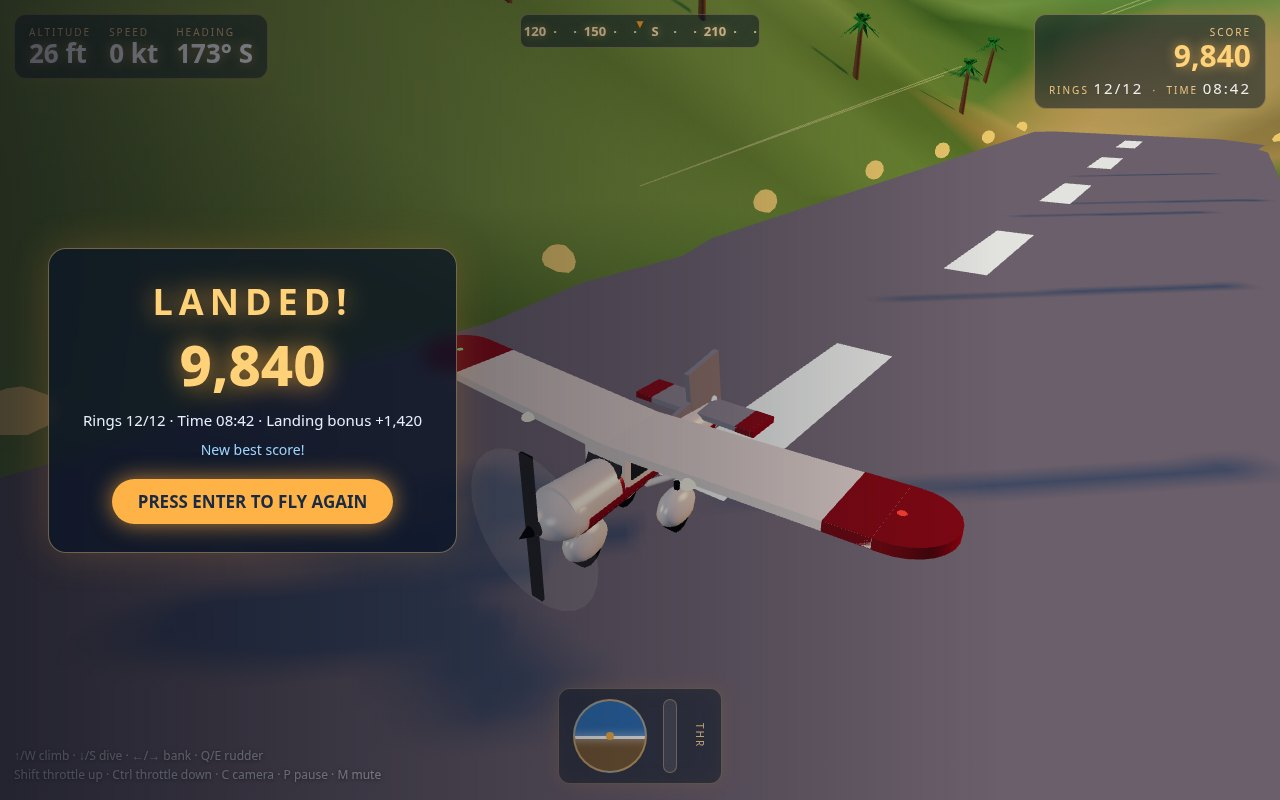
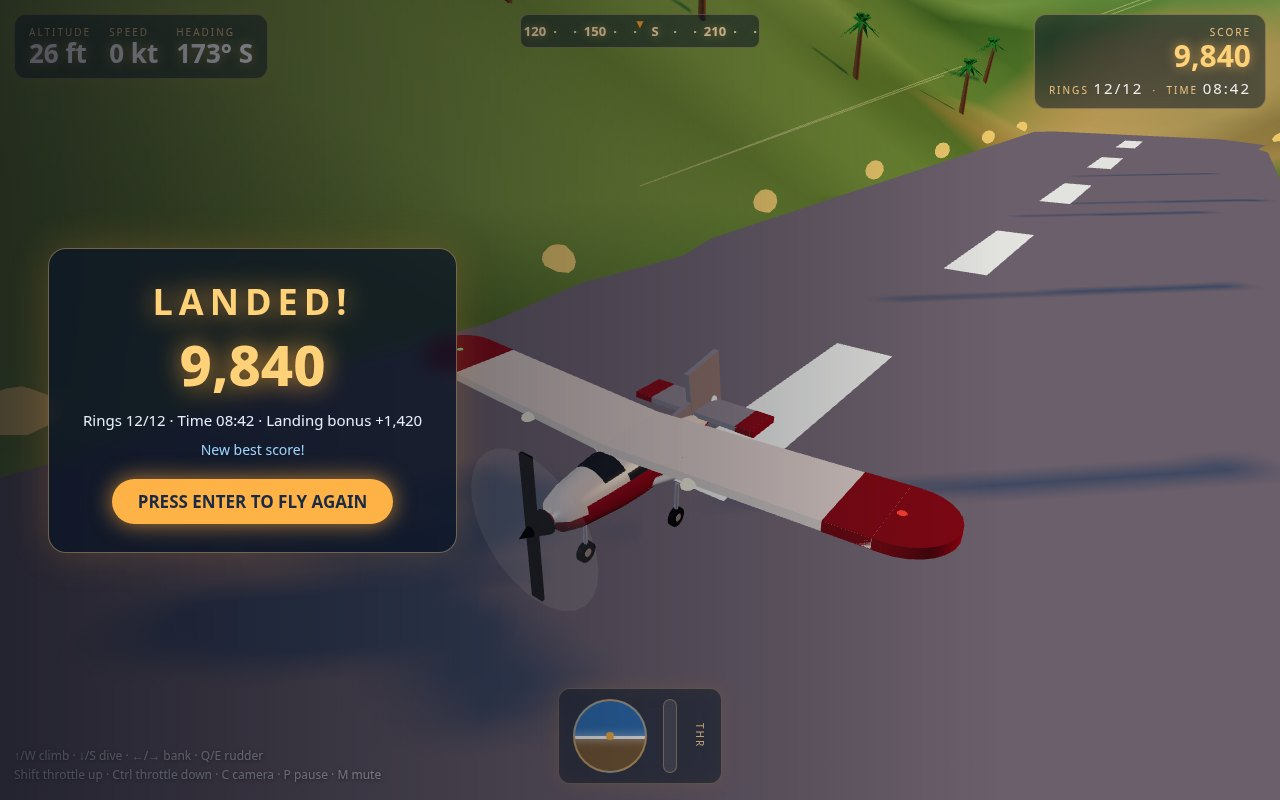
v6 visual rebuild: lathe fuselage (no more tube), real wheels (no more lamps)
- Fuselage is now a LatheGeometry profile, not a uniform cylinder:
  narrow cowl, fat cabin (widest station), long taper to a thin tail
  cone under the grey fin. Windows + windshield are curved lathe
  shells hugging the body; cheatline + maroon belly follow the profile.
- Deleted the big white wheel fairings (spats) outright: small dark
  tires on thin light-grey struts, like the reference photo.
- Hero camera: tried a rear-left 3/4 so the ring could share the frame
  (it did), but the banked plane reads as a red blob with a giant wing
  bar from behind — reverted to the v5 front-left 3/4 hero. Ring stays
  out of the cover; HUD carries the ring info.

Changed region(s): [[0.4062, 0.5625, 0.5625, 0.7188], [0.5312, 0.5, 0.5625, 0.5312]]

diff --git a/game/src/plane.js b/game/src/plane.js
@@ -23,70 +23,70 @@ export function buildPlaneModel() {
   // The prop blades and disc fade to a blur in the cockpit view (see main.js).
   const bladeMat = new THREE.MeshPhongMaterial({ color: DARK, shininess: 30, transparent: true, opacity: 1 });
   const discMat = new THREE.MeshBasicMaterial({ color: 0xd8d8d8, transparent: true, opacity: 0.04, side: THREE.DoubleSide });
-  const glass = new THREE.MeshPhongMaterial({ color: 0x18242e, shininess: 180, transparent: true, opacity: 0.92 });
+  const glass = new THREE.MeshPhongMaterial({ color: 0x18242e, shininess: 180, transparent: true, opacity: 0.92, side: THREE.DoubleSide });
 
-  // Fuselage: long tapered cylinder along Z (nose at -Z), fat at the nose.
-  // CylinderGeometry's radiusTop lands at +Z after the X-rotation, so the
-  // small radius goes first: thin tail, fat nose. 24 segments (was 16):
-  // the rounder cross-section catches the sun as a gradient, not a facet.
-  const body = new THREE.Mesh(new THREE.CylinderGeometry(0.40, 0.62, 5.4, 24), white);
-  body.rotation.x = Math.PI / 2;
-  body.castShadow = true;
-  group.add(body);
+  // Fuselage: a LATHE profile, not a tube. The v5 fuselage was one uniform
+  // cylinder (r 0.40→0.62) with a ball nose and a boxy cabin on top — from
+  // any angle it read as a plain white tube, and the user called it exactly
+  // that ("kayak tabung"). The profile below is the Cessna silhouette from
+  // the reference photo: narrow cowl, FAT cabin (the widest station), then
+  // a long taper down to a thin tail cone under the grey fin. LatheGeometry
+  // rotates the profile around the fuselage axis; points are (radius, z)
+  // with the nose at -Z. After rotation.x = PI/2, local +Y lands at +Z,
+  // local +Z lands at world -Y (the belly), local +X stays world +X — so
+  // phi 0 is the belly, phi PI/2 the +X side, phi PI the roof.
+  const PROFILE = [
+    [0.16, -2.90], // nose tip (spinner covers the front)
+    [0.38, -2.70], // cowl front
+    [0.50, -2.30], // cowl max
+    [0.58, -1.70], // windshield base
+    [0.65, -1.10], // cabin front
+    [0.68, -0.50], // cabin max — the fattest station
+    [0.68, -0.10],
+    [0.62, 0.50], // cabin rear
+    [0.50, 1.20], // tail taper
+    [0.38, 1.80],
+    [0.26, 2.30], // tail cone
+    [0.16, 2.70],
+    [0.10, 2.90], // tail tip
+  ];
+  // Lathe points for the profile stations inside [zMin, zMax], radius
+  // bumped by `extra` so shells (belly, stripes, glass) sit proud of the
+  // white body instead of z-fighting it.
+  const profilePoints = (zMin, zMax, extra = 0) =>
+    PROFILE.filter(([, z]) => z >= zMin && z <= zMax)
+      .map(([r, z]) => new THREE.Vector2(r + extra, z));
+  const lathe = (zMin, zMax, extra, phiStart, phiLength, material) => {
+    const m = new THREE.Mesh(
+      new THREE.LatheGeometry(profilePoints(zMin, zMax, extra), 24, phiStart, phiLength),
+      material,
+    );
+    m.rotation.x = Math.PI / 2;
+    m.castShadow = true;
+    group.add(m);
+    return m;
+  };
+  // White body: full profile, full circle.
+  lathe(-2.90, 2.90, 0, 0, Math.PI * 2, white);
   // Maroon belly: a half-shell wrapped around the lower fuselage, so the
   // two-tone split reads from the side exactly like the reference photo.
-  // (Local -Z maps to world -Y after the X-rotation, so theta in
-  // [-PI/2, PI/2] is the bottom half.)
   const bellyMat = new THREE.MeshPhongMaterial({ color: MAROON, shininess: 70, specular: 0x662222, side: THREE.DoubleSide });
-  const belly = new THREE.Mesh(new THREE.CylinderGeometry(0.41, 0.63, 5.0, 24, 1, true, -Math.PI / 2, Math.PI), bellyMat);
-  belly.rotation.x = Math.PI / 2;
-  belly.position.z = 0.1;
-  group.add(belly);
-  // Rounded white nose cowl.
-  const cowl = new THREE.Mesh(new THREE.SphereGeometry(0.64, 24, 18), white);
-  cowl.scale.set(1, 0.85, 1.15);
-  cowl.position.z = -2.55;
-  cowl.castShadow = true;
-  group.add(cowl);
-  // Maroon cheatline stripe along each fuselage side at window level: thin
-  // shell bands that hug the taper (a straight box would ridge at the tail).
-  // Band covers world y in [-0.08, +0.28]; theta ranges pick out the sides.
-  for (const thetaStart of [1.41, 4.11]) {
-    const stripe = new THREE.Mesh(
-      new THREE.CylinderGeometry(0.45, 0.57, 3.0, 24, 1, true, thetaStart, 0.76),
-      bellyMat,
-    );
-    stripe.rotation.x = Math.PI / 2;
-    stripe.position.z = 0.2;
-    group.add(stripe);
+  lathe(-2.90, 2.90, 0.012, -Math.PI / 2, Math.PI, bellyMat);
+  // Maroon cheatline stripe along each fuselage side at window level.
+  for (const phiStart of [Math.PI / 2 - 0.35, (3 * Math.PI) / 2 - 0.35]) {
+    lathe(-2.30, 1.20, 0.015, phiStart, 0.7, bellyMat);
   }
-  // Cabin: the boxy Cessna cabin with big dark windows, sitting above the
-  // fuselage line under the high wing.
-  const cabin = new THREE.Mesh(new THREE.BoxGeometry(1.12, 0.8, 1.7), white);
-  cabin.position.set(0, 0.42, -0.35);
-  cabin.castShadow = true;
-  group.add(cabin);
-  const cabinRoof = new THREE.Mesh(new THREE.BoxGeometry(1.14, 0.08, 1.7), white);
-  cabinRoof.position.set(0, 0.86, -0.35);
-  group.add(cabinRoof);
-  // Big dark side windows — the Cessna signature. Larger in v5 (taller +
-  // longer, plus a small rear window each side) so the glass reads as real
-  // windows from the hero angle instead of thin dark slits.
-  for (const side of [-1, 1]) {
-    const win = new THREE.Mesh(new THREE.BoxGeometry(0.04, 0.62, 1.35), glass);
-    win.position.set(side * 0.58, 0.5, -0.35);
-    group.add(win);
-    const rear = new THREE.Mesh(new THREE.BoxGeometry(0.04, 0.45, 0.7), glass);
-    rear.position.set(side * 0.58, 0.48, 0.55);
-    group.add(rear);
+  // Big dark side windows — curved lathe shells that HUG the fuselage (a
+  // flat box on a round body sticks out at its top edge like a slab).
+  // Front window + smaller rear window, each side, upper-side band.
+  for (const phiStart of [Math.PI / 2 - 0.12, (3 * Math.PI) / 2 - 0.60]) {
+    lathe(-1.10, -0.10, 0.008, phiStart, 0.72, glass);
+    lathe(0.50, 1.20, 0.008, phiStart, 0.72, glass);
   }
-  // Windshield: sloped dark glass at the front of the cabin (bottom forward,
-  // top raked back toward the roof). Hidden in the cockpit view (main.js
-  // toggles canopy.visible), so the pilot sees out.
-  const canopy = new THREE.Mesh(new THREE.BoxGeometry(0.95, 0.55, 0.06), glass);
-  canopy.position.set(0, 0.55, -1.18);
-  canopy.rotation.x = 0.45;
-  group.add(canopy);
+  // Windshield: sloped dark glass wrapping the top-front of the cabin.
+  // Hidden in the cockpit view (main.js toggles canopy.visible), so the
+  // pilot sees out.
+  const canopy = lathe(-1.70, -1.10, 0.008, Math.PI - 0.85, 1.7, glass);
   // High wing: ONE straight wing on top of the cabin (Cessna style), slight
   // dihedral, white with maroon tips — the single most recognisable part of
   // the reference plane. Two halves so the dihedral reads cleanly.
@@ -152,24 +152,28 @@ export function buildPlaneModel() {
   prop.add(disc);
   prop.position.z = -3.35;
   group.add(prop);
-  // Landing gear: fixed TRICYCLE gear like the photo — nose wheel plus two
-  // mains, each with a white wheel fairing (spat) the tyre peeks out of.
-  const gearLeg = (x, z, wheelY) => {
-    const strut = new THREE.Mesh(new THREE.CylinderGeometry(0.07, 0.07, 0.95, 6), dark);
-    strut.position.set(x, -0.95, z);
+  // Landing gear: fixed TRICYCLE gear like the photo — SMALL dark tires on
+  // THIN light-grey struts. v5's big white wheel fairings (spats) were
+  // round white spheres hanging under the plane and read as lamps — the
+  // user called it exactly that ("masa di roda ada kayak lampu"). Deleted
+  // outright: no spats, no white spheres anywhere near the wheels.
+  const legMat = new THREE.MeshPhongMaterial({ color: 0x9aa0a6, shininess: 60 });
+  const gearLeg = (x, z) => {
+    const strut = new THREE.Mesh(new THREE.CylinderGeometry(0.05, 0.05, 0.95, 6), legMat);
+    strut.position.set(x, -1.0, z);
     group.add(strut);
-    const wheel = new THREE.Mesh(new THREE.CylinderGeometry(0.38, 0.38, 0.26, 12), dark);
-    wheel.rotation.z = Math.PI / 2;
-    wheel.position.set(x, wheelY, z);
-    group.add(wheel);
-    const spat = new THREE.Mesh(new THREE.SphereGeometry(0.42, 12, 10), white);
-    spat.scale.set(0.8, 1.15, 1.5);
-    spat.position.set(x, wheelY + 0.28, z);
-    group.add(spat);
+    const tire = new THREE.Mesh(new THREE.CylinderGeometry(0.24, 0.24, 0.13, 14), dark);
+    tire.rotation.z = Math.PI / 2;
+    tire.position.set(x, -1.45, z);
+    group.add(tire);
+    const hub = new THREE.Mesh(new THREE.CylinderGeometry(0.10, 0.10, 0.15, 10), grey);
+    hub.rotation.z = Math.PI / 2;
+    hub.position.set(x, -1.45, z);
+    group.add(hub);
   };
-  gearLeg(0, -1.9, -1.38);
-  gearLeg(-0.8, 0.35, -1.42);
-  gearLeg(0.8, 0.35, -1.42);
+  gearLeg(0, -1.9);
+  gearLeg(-0.8, 0.35);
+  gearLeg(0.8, 0.35);
   // Navigation lights: red left, green right, white tail.
   const light = (color, x, y, z) => {
     const m = new THREE.Mesh(new THREE.SphereGeometry(0.16, 8, 6), new THREE.MeshBasicMaterial({ color }));

diff --git a/game/src/main.js b/game/src/main.js
@@ -184,12 +184,14 @@ function main() {
     camera.lookAt(look);
   }
 
-  // Hero camera (v5, staged cover shot only): front-left 3/4, on the
-  // SUNLIT side. The old chase view sat directly behind the plane, so the
-  // wing was a huge flat white slab hiding the fuselage — it read as a
-  // paper cutout. From here the nose, spinner, prop blur, cabin windows
-  // and cheatline are all visible, the plane is big in frame, and the next
-  // ring still sits in the background beyond it. Never used in live play.
+  // Hero camera (v5 front-left 3/4, RESTORED): nose, spinner, prop blur,
+  // cabin windows and cheatline all visible, plane big in frame. A v6
+  // rear-left 3/4 was tried so the ring could share the frame — the ring
+  // DID appear, but from behind the banked plane reads as a red blob with
+  // a giant white wing-bar and the tail clips the frame edge. The ring
+  // cannot share the frame with a big plane from any rear angle, and the
+  // front hero is the shot that sells the plane — the HUD carries the
+  // ring info ("RING 2 / 70 m" + chevron). Never used in live play.
   function updateHeroCamera() {
     const fwd = forwardVector(flight.state.yaw, flight.state.pitch);
     const up = new THREE.Vector3(0, 1, 0);
@@ -201,9 +203,7 @@ function main() {
     camera.position.copy(pos);
     // Look just ahead of the plane, not 16 m out: the look target sets
     // the frame centre, and a far target pushes the plane itself off the
-    // frame edge (52° off-axis). The ring sits ~90° off this axis from
-    // a side camera, so it cannot share the frame with a big plane —
-    // the hero shot is the plane + coast, the HUD carries the ring info.
+    // frame edge (52° off-axis).
     // v5.1 sat too close to the wing (5 m): the near wing filled the
     // frame as a flat maroon slab. Pulled back + more to the front, so
     // the wing reads as a wing and the nose + windows carry the shot.
